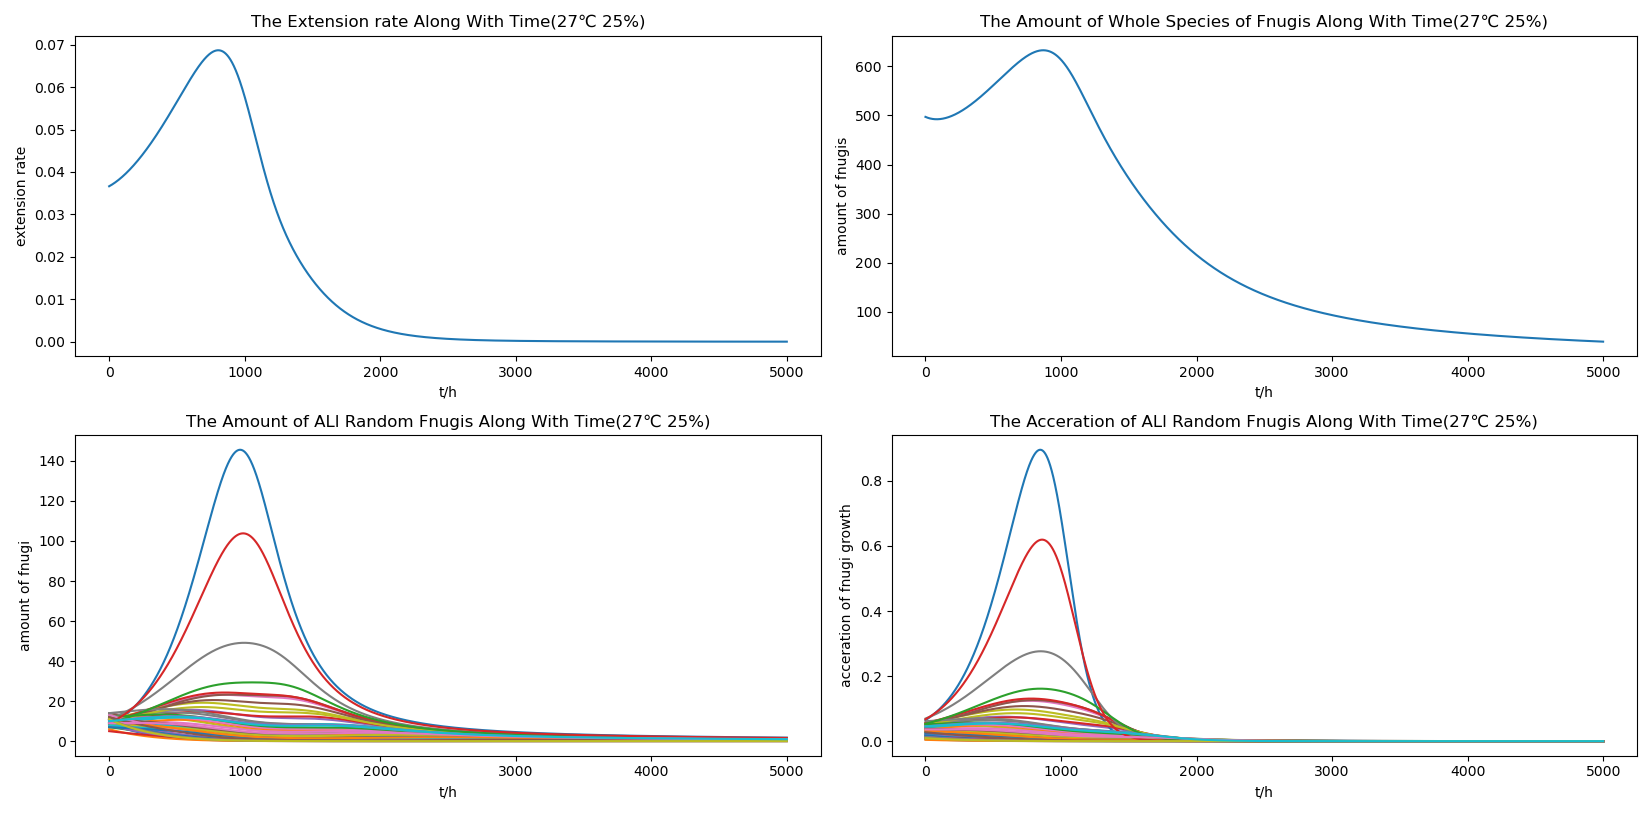
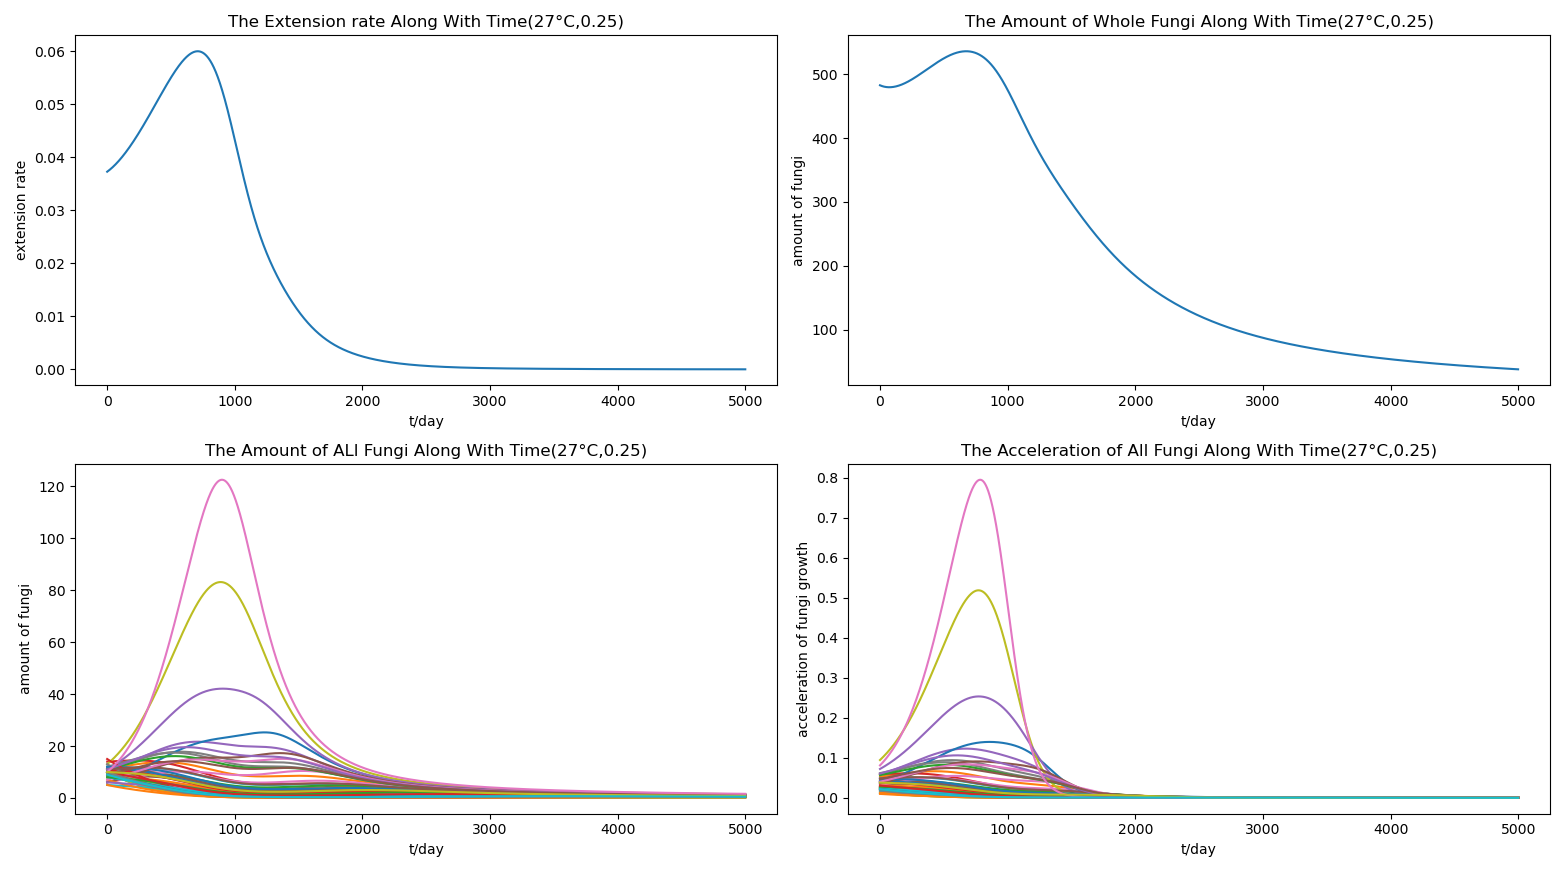
model2 -增加测试记录

diff --git a/Q1.py b/Q1.py
@@ -3,7 +3,7 @@ import matplotlib.pyplot as plt
 import math
 
 
-class fnugis:
+class fungis:
     def __init__(self, extension_max_g, Tmax, Tmin, T_real, Wmax, Wmin, W_real, weight_b, weight_c, number, Neq, moisture_tolerance, decomposition_rate, competition):
         self.extension_max_g = extension_max_g
         self.Tmax = Tmax
@@ -44,7 +44,7 @@ class fnugis:
         return extension_gi
 
 
-def update_real_number(fnugis, m2, threshold):
+def update_real_number(fungis, m2, threshold):
     N = 0
     Q = 0
     d_num = 0
@@ -54,59 +54,66 @@ def update_real_number(fnugis, m2, threshold):
     total_number = 0
 
 
-    for fnugi in fnugis:
-        gi = fnugi.extension_real()
+    for fungi in fungis:
+        gi = fungi.extension_real()
         extension_gi.append(gi)
         total_gi += gi
-        total_number += fnugi.number
+        total_number += fungi.number
 
 
-    for i in range(len(fnugis)):
+    for i in range(len(fungis)):
 
-        # print(fnugis[i].number / total_number)
+        # print(fungis[i].number / total_number)
 
-        if fnugis[i].Neq == 800000:
-            if fnugis[i].number-1 <= 0:
-                fnugis[i].number = 2
-            fnugis[i].Neq = m2 #* extension_gi[i] / total_gi  # + 1000
+        if fungis[i].Neq == 800000:
+            if fungis[i].number-1 <= 0:
+                fungis[i].number = 2
+            fungis[i].Neq = m2 #* extension_gi[i] / total_gi  # + 1000
 
-            # print(m2, fnugis[i].Neq, delta, extension_gi[i] -
-            #       delta, total_gi - delta * len(fnugis))
-            fnugis[i].a = math.log(fnugis[i].Neq/fnugis[i].number-1)
+            # print(m2, fungis[i].Neq, delta, extension_gi[i] -
+            #       delta, total_gi - delta * len(fungis))
+            fungis[i].a = math.log(fungis[i].Neq/fungis[i].number-1)
         else:
-            fnugis[i].Neq = m2 #* extension_gi[i] / total_gi
+            fungis[i].Neq = m2 #* extension_gi[i] / total_gi
 
         sigma = 0
         for z in range(50):
             if z!=i:
-                sigma += fnugis[z].competition/fnugis[i].competition*fnugis[z].number
+                sigma += fungis[z].competition/fungis[i].competition*fungis[z].number
 
-        # fnugis[i].number = fnugis[i].Neq / \
-        #     (1 + math.exp(fnugis[i].a - extension_gi[i] * fnugis[i].t))  #普通模式
+        #普通模式
+        # fungis[i].number = fungis[i].Neq / \
+        #     (1 + math.exp(fungis[i].a - extension_gi[i] * fungis[i].t))  
 
-        fnugis[i].number = (fnugis[i].Neq-sigma) / \
-            (1 + math.exp(fnugis[i].a - (1-sigma/fnugis[i].Neq)*extension_gi[i] * fnugis[i].t))
+        # if fungis[i].number < 0:
+        #     fungis[i].number = 0
 
-        if fnugis[i].number < 0:
-            fnugis[i].number = 0
+        #     d_number = fungis[i].Neq*extension_gi[i] * \
+        #     math.exp(fungis[i].a-extension_gi[i] * fungis[i].t) / \
+        #     (1+math.exp(fungis[i].a-extension_gi[i] * fungis[i].t))**2
 
-        # d_number = fnugis[i].Neq*extension_gi[i] * \
-        #     math.exp(fnugis[i].a-extension_gi[i] * fnugis[i].t) / \
-        #     (1+math.exp(fnugis[i].a-extension_gi[i] * fnugis[i].t))**2
+        #竞争模式
+        fungis[i].number = (fungis[i].Neq-sigma) / \
+            (1 + math.exp(fungis[i].a - (1-sigma/fungis[i].Neq)*extension_gi[i] * fungis[i].t)) #竞争模式
 
-        d_number = fnugis[i].Neq*extension_gi[i] * (1-sigma/fnugis[i].Neq)
+        if fungis[i].number < 0:
+            fungis[i].number = 0
 
-        fnugis[i].t = fnugis[i].t + 1
+        d_number = fungis[i].Neq*extension_gi[i] * (1-sigma/fungis[i].Neq)
 
-        print(fnugis[i].Neq,extension_gi[i],fnugis[i].a,d_number,fnugis[i].number)
-        N += fnugis[i].number
-        Q += fnugis[i].moisture_tolerance * \
-            fnugis[i].decomposition_rate*fnugis[i].number
+
+
+        fungis[i].t = fungis[i].t + 1
+
+        print(fungis[i].Neq,extension_gi[i],fungis[i].a,d_number,fungis[i].number)
+        N += fungis[i].number
+        Q += fungis[i].moisture_tolerance * \
+            fungis[i].decomposition_rate*fungis[i].number
         d_num += d_number
-        fnugis[i].number_log.append(fnugis[i].number)
-        fnugis[i].dnumber_log.append(d_number)
+        fungis[i].number_log.append(fungis[i].number)
+        fungis[i].dnumber_log.append(d_number)
 
-    d_num /= len(fnugis)
+    d_num /= len(fungis)
     Q = Q/1000000
     # print('m2, Q',m2, Q)
     m2 = m2 * (1 - Q)

diff --git a/fnugi.py b/fnugi.py
@@ -9,26 +9,26 @@ def draw(extension_rate, number, fnus, decomposition, temperature, Humidity):
     plt.subplot(2, 3, 1)
     plt.xlabel('t/day')
     plt.ylabel('extension rate')
-    plt.title('The Extension rate Along With Time')
+    plt.title('The Extension Rate Along With Time')
     plt.plot(extension_rate)
 
     plt.subplot(2, 3, 2)
     plt.xlabel('t/day')
-    plt.ylabel('amount of fnugis')
-    plt.title('The Amount of Whole Species of Fnugis Along With Time')
+    plt.ylabel('amount of fungi')
+    plt.title('The Amount of Whole Fungi Along With Time')
     plt.plot(number)
 
     plt.subplot(2, 3, 3)
     plt.xlabel('t/day')
-    plt.ylabel('amount of fnugi')
-    plt.title('The Amount of ALl Random Fnugis Along With Time')
+    plt.ylabel('amount of fungi')
+    plt.title('The Amount of ALl Fungi Along With Time')
     for i in range(len(fnus)):
         plt.plot(fnus[i].number_log)
 
     plt.subplot(2, 3, 4)
     plt.xlabel('t/day')
-    plt.ylabel('acceration of fnugi growth')
-    plt.title('The Acceration of ALl Random Fnugis Along With Time')
+    plt.ylabel('acceleration of fungi growth')
+    plt.title('The Acceleration of ALl fungi Along With Time')
     for i in range(len(fnus)):
         plt.plot(fnus[i].dnumber_log)
 
@@ -40,8 +40,8 @@ def draw(extension_rate, number, fnus, decomposition, temperature, Humidity):
 
     plt.subplot(2, 3, 6)
     plt.xlabel('t/day')
-    plt.ylabel('Degree of dryness')
-    plt.title('The Degree of dryness Along With Time')
+    plt.ylabel('drought index')
+    plt.title('The Drought Index Along With Time')
     plt.plot(Humidity[:2000])
     plt.show()
 
@@ -69,8 +69,8 @@ def compare(record):
     
 
     plt.xlabel('t/day')
-    plt.ylabel('the left of the litter')
-    plt.title('The Litter Left Along With Time')
+    plt.ylabel('the left of the woody fibers')
+    plt.title('The Woody Fibers Left Along With Time')
     l = []
     for i in range(5):
         decomposition, litter, record_x, record_y = record[i]
@@ -86,7 +86,7 @@ def compare(record):
 
 def record_experment_data(fs, fnus):
 
-    print(fnus[0].Neq)
+    # print(fnus[0].Neq)
     m2 = 800000
     threshold = 400000
 
@@ -181,7 +181,7 @@ print("number_now", number_now)
 F = []
 K = 800000
 for i in range(50):
-    fnu = Q1.fnugis(extension_rate[i], temperature_high[i],
+    fnu = Q1.fungis(extension_rate[i], temperature_high[i],
                     temperature_low[i], temperature_now,
                     width_high[i], width_low[i], width_now, 0.00035, 0.015,
                     number_now[i], K, moisture_tolerance[i], decomposition_rate[i],competition_a[i])
